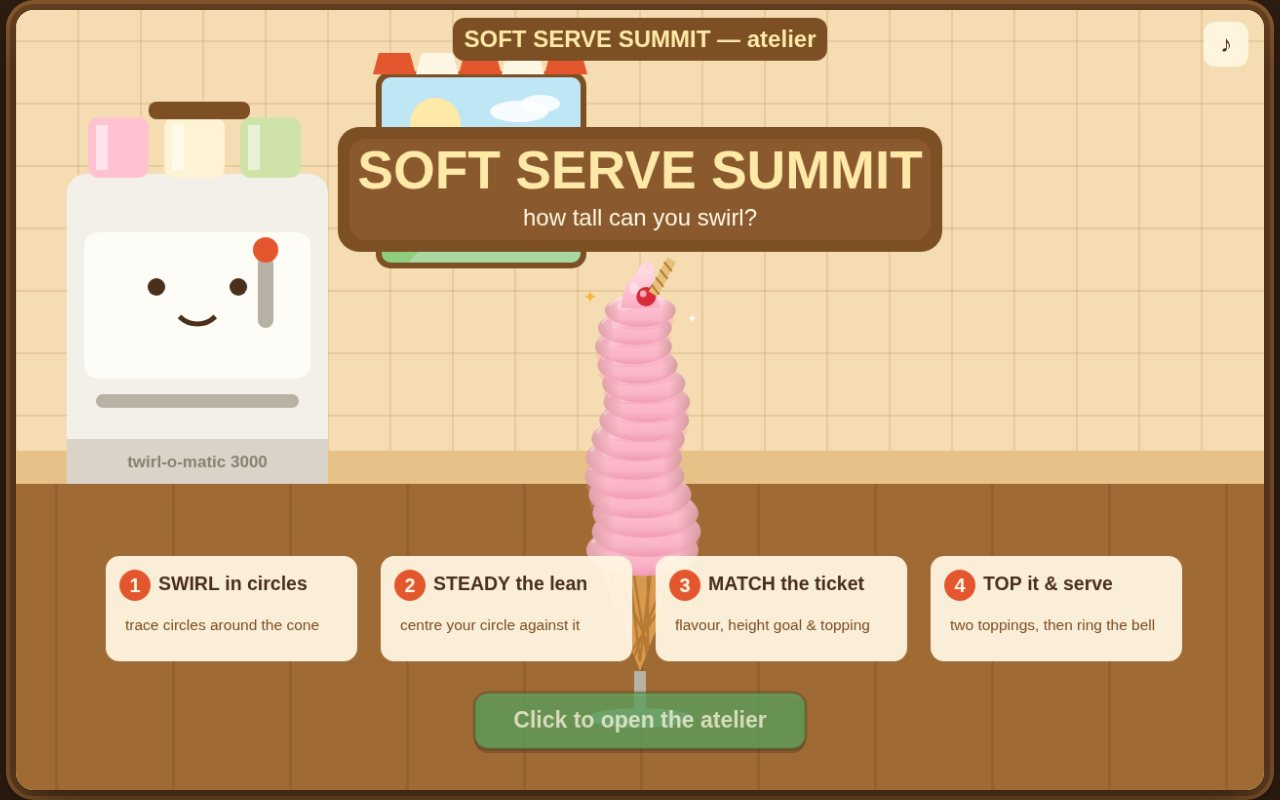
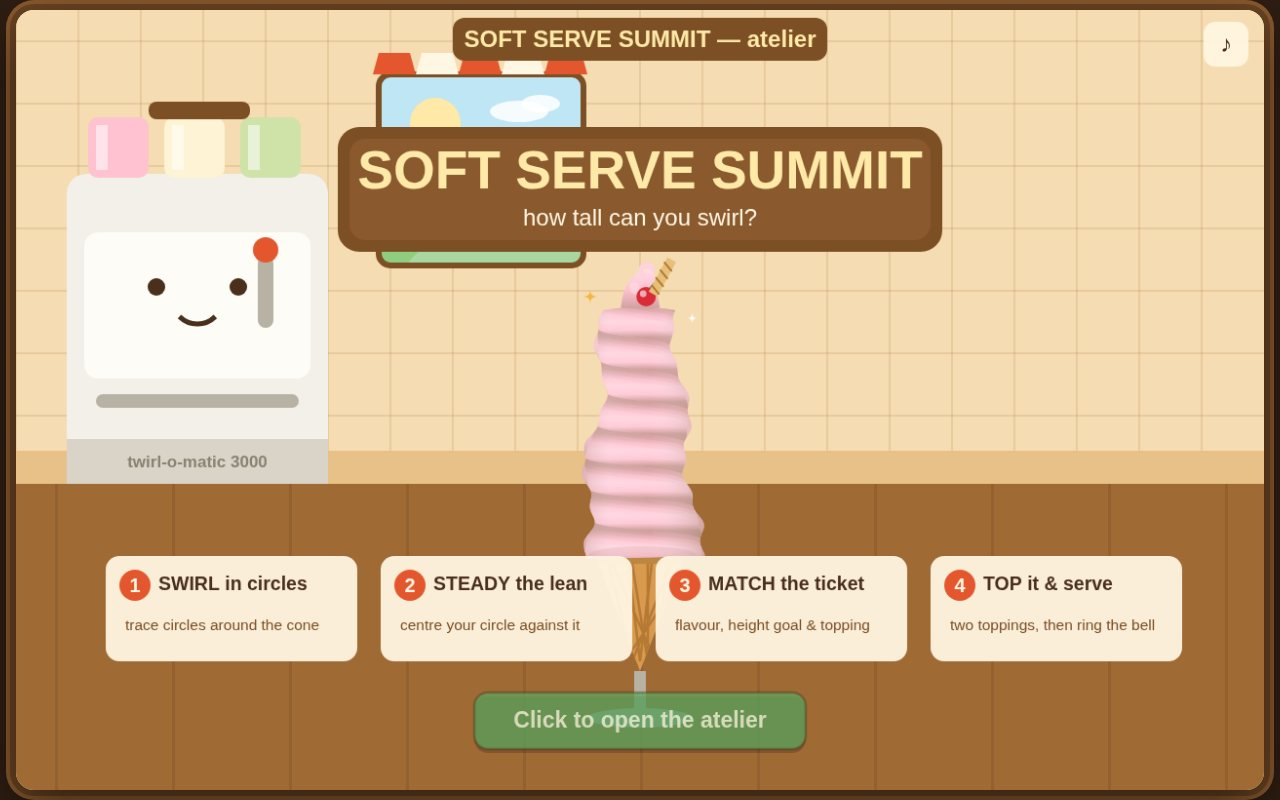
Whipped-cream tower: one continuous spiral rope with soft folded shading
Replace the stacked-ring tower rendering with a single piped rope:
a breathing silhouette (organic swell plus rope-aligned edge bulges)
filled with the cream, then each turn of the helix drawn as a plump
filled band between diagonal groove curves - lit along its ridge,
falling into warm greige shadow where it tucks under the fold above.
No outlines, no per-ring gloss dabs; shadows derive from each flavour
pulled toward a warm greige, so vanilla reads as off-white whipped
cream. Tip curl softened to match. Rendering only: no changes to
mechanics, scoring or input.

Changed region(s): [[0.4375, 0.375, 0.5625, 0.7188]]

diff --git a/game/src/render.js b/game/src/render.js
@@ -182,48 +182,100 @@ function mixHex(a, b, t) {
   return `rgb(${c[0]},${c[1]},${c[2]})`;
 }
 
-/** Vertical pitch of one piped ring of the tower, in pixels. */
-const RING_PITCH = 19;
+/** Vertical rise of one full turn of the piped rope, in pixels. */
+const TURN_PITCH = 33;
+
+/** The warm greige every cream shadow leans toward — never a hard grey. */
+const WARM_SHADOW = '#7d6242';
+
+/** A flavour's shadow side: its own colour pulled toward warm greige. */
+function shadowOf(flavour, t) {
+  return mixHex(flavour.body, WARM_SHADOW, t);
+}
+
+/** Radius of the rope itself (its tube) at height `y`. */
+function tubeRadiusAt(y) {
+  return Math.min(21, Math.max(10.5, radiusAt(y) * 0.68));
+}
 
 /**
- * One plump piped ring of the tower: a fat rounded band with a gradient
- * body (lit on top, shaded underneath), a soft shadow cast on the ring
- * below, dimmed flanks so it feels cylindrical, and a glossy ridge where
- * the piping caught the light. Rings overlap heavily, so the stack reads
- * as squeezed-out cream, not a pile of thin discs.
+ * The tower's half-widths at height `y`: the taper, breathed on by two
+ * slow organic swells, and bulged where the rope itself passes each
+ * edge — the left edge swells half a turn after the right, so the
+ * silhouette undulates like a coil instead of a turned post.
  */
-function drawRing(ctx, cx, cy, r, flavour) {
-  const ry = Math.max(9.5, r * 0.46);
-  // The soft shadow this ring casts on the one below it: a wide, faint
-  // groove, never a hard line.
-  ctx.fillStyle = flavour.shade;
-  ctx.globalAlpha = 0.3;
-  ctx.beginPath(); ctx.ellipse(cx, cy + RING_PITCH * 0.55, r * 0.97, ry * 0.6, 0, 0, Math.PI * 2); ctx.fill();
-  ctx.globalAlpha = 1;
-  // The body, shaded top to bottom so the ring reads round, not flat.
-  const grad = ctx.createLinearGradient(0, cy - ry, 0, cy + ry);
-  grad.addColorStop(0, mixHex(flavour.body, '#ffffff', 0.55));
-  grad.addColorStop(0.38, flavour.body);
-  grad.addColorStop(0.78, mixHex(flavour.body, flavour.shade, 0.35));
-  grad.addColorStop(1, flavour.shade);
-  ctx.fillStyle = grad;
-  ctx.beginPath(); ctx.ellipse(cx, cy, r, ry, 0, 0, Math.PI * 2); ctx.fill();
-  // Dim the flanks a touch, so the ring feels cylindrical.
-  const side = ctx.createLinearGradient(cx - r, 0, cx + r, 0);
-  side.addColorStop(0, 'rgba(96,54,20,0.20)');
-  side.addColorStop(0.22, 'rgba(96,54,20,0)');
-  side.addColorStop(0.8, 'rgba(96,54,20,0)');
-  side.addColorStop(1, 'rgba(96,54,20,0.24)');
-  ctx.fillStyle = side;
-  ctx.beginPath(); ctx.ellipse(cx, cy, r, ry, 0, 0, Math.PI * 2); ctx.fill();
-  // The piped ridge catching the light along the top of the ring.
-  ctx.strokeStyle = 'rgba(255,255,255,0.38)';
-  ctx.lineWidth = Math.max(2, r * 0.055);
+function edgeWidths(y) {
+  const phase = (Math.PI * 2 * y) / TURN_PITCH;
+  const wob = 1 + 0.045 * Math.sin(y * 0.052 + 1.7) + 0.03 * Math.sin(y * 0.021 + 0.4);
+  const base = radiusAt(y) * wob;
+  const bulge = Math.min(0.05, (tubeRadiusAt(y) * 0.17) / Math.max(1, base));
+  return {
+    l: base * (1 + bulge * Math.cos(phase - Math.PI)),
+    r: base * (1 + bulge * Math.cos(phase)),
+    mid: base,
+  };
+}
+
+/** Stroke a point list as a soft, feathered band: three widening passes. */
+function softStroke(ctx, pts, width, colour, alpha) {
+  if (pts.length < 2) return;
+  ctx.save();
   ctx.lineCap = 'round';
-  ctx.beginPath(); ctx.ellipse(cx, cy - ry * 0.06, r * 0.92, ry * 0.84, 0, Math.PI * 1.1, Math.PI * 1.7); ctx.stroke();
-  // A glossy dab on the upper left.
-  ctx.fillStyle = 'rgba(255,255,255,0.35)';
-  ctx.beginPath(); ctx.ellipse(cx - r * 0.36, cy - ry * 0.36, r * 0.3, ry * 0.3, -0.35, 0, Math.PI * 2); ctx.fill();
+  ctx.lineJoin = 'round';
+  const passes = [[1.75, 0.2], [1.15, 0.38], [0.68, 0.62]];
+  for (const [scale, share] of passes) {
+    ctx.strokeStyle = colour;
+    ctx.globalAlpha = alpha * share;
+    ctx.lineWidth = Math.max(1, width * scale);
+    ctx.beginPath();
+    ctx.moveTo(pts[0].x, pts[0].y);
+    for (let i = 1; i < pts.length - 1; i += 1) {
+      const mx = (pts[i].x + pts[i + 1].x) / 2;
+      const my = (pts[i].y + pts[i + 1].y) / 2;
+      ctx.quadraticCurveTo(pts[i].x, pts[i].y, mx, my);
+    }
+    const last = pts[pts.length - 1];
+    ctx.lineTo(last.x, last.y);
+    ctx.stroke();
+  }
+  ctx.restore();
+}
+
+/**
+ * Points along one turn of the helix as it crosses the front of the
+ * tower, lifted `lift` pixels above the turn's ridge line. Across the
+ * front the rope climbs half a pitch from the right edge to the left;
+ * that diagonal flow is what makes the stack read as one continuous
+ * spiral of whipped cream instead of a pile of separate rings.
+ */
+function ridgePoints(tower, cx, topY, k, lift) {
+  const pts = [];
+  for (let i = 0; i <= 12; i += 1) {
+    const u = -1 + (i / 12) * 2;
+    const theta = Math.acos(Math.max(-1, Math.min(1, u)));
+    const y = k * TURN_PITCH + (TURN_PITCH / (Math.PI * 2)) * theta + lift;
+    pts.push({ x: cx + dxAt(tower, y) + u * edgeWidths(y).mid * 0.99, y: topY - y });
+  }
+  return pts;
+}
+
+/** The tower's outline as a Path2D, crowned with a soft dome. */
+function towerSilhouette(tower, cx, topY) {
+  const H = tower.heightPx;
+  const ys = [];
+  for (let y = 0; y <= H; y += 3) ys.push(y);
+  if (ys[ys.length - 1] < H) ys.push(H);
+  const leftPts = ys.map((y) => ({ x: cx + dxAt(tower, y) - edgeWidths(y).l, y: topY - y }));
+  const rightPts = ys.map((y) => ({ x: cx + dxAt(tower, y) + edgeWidths(y).r, y: topY - y }));
+  const path = new Path2D();
+  path.moveTo(leftPts[0].x, leftPts[0].y + 3);
+  for (const p of leftPts) path.lineTo(p.x, p.y);
+  const topAxis = cx + dxAt(tower, H);
+  const topRight = rightPts[rightPts.length - 1];
+  path.quadraticCurveTo(topAxis, topY - H - 7, topRight.x, topRight.y);
+  for (let i = rightPts.length - 1; i >= 0; i -= 1) path.lineTo(rightPts[i].x, rightPts[i].y);
+  path.closePath();
+  return path;
 }
 
 /** The curled peak at the very top: a plump teardrop with a flicked curl. */
@@ -233,7 +285,7 @@ function drawTip(ctx, cx, cy, r, flavour) {
   const grad = ctx.createLinearGradient(0, cy - h, 0, cy + 4);
   grad.addColorStop(0, mixHex(flavour.body, '#ffffff', 0.5));
   grad.addColorStop(0.55, flavour.body);
-  grad.addColorStop(1, mixHex(flavour.body, flavour.shade, 0.5));
+  grad.addColorStop(1, shadowOf(flavour, 0.34));
   ctx.fillStyle = grad;
   ctx.beginPath();
   ctx.moveTo(cx - w, cy + 4);
@@ -243,12 +295,12 @@ function drawTip(ctx, cx, cy, r, flavour) {
   ctx.quadraticCurveTo(cx, cy + w * 0.28, cx - w, cy + 4);
   ctx.closePath(); ctx.fill();
   // The little flick where the peak curls over.
-  ctx.strokeStyle = mixHex(flavour.body, '#ffffff', 0.35);
+  ctx.strokeStyle = mixHex(flavour.body, '#ffffff', 0.28);
   ctx.lineWidth = Math.max(3.5, r * 0.14);
   ctx.lineCap = 'round';
   ctx.beginPath(); ctx.arc(cx + w * 0.34, cy - h * 0.9, w * 0.3, Math.PI * 0.75, Math.PI * 1.95); ctx.stroke();
-  // Gloss on the peak's shoulder.
-  ctx.fillStyle = 'rgba(255,255,255,0.4)';
+  // A soft sheen on the peak's shoulder — whipped, not glossy.
+  ctx.fillStyle = 'rgba(255,255,255,0.26)';
   ctx.beginPath(); ctx.ellipse(cx - w * 0.3, cy - h * 0.42, w * 0.26, h * 0.16, -0.4, 0, Math.PI * 2); ctx.fill();
 }
 
@@ -339,18 +391,86 @@ export function drawTower(ctx, tower, flavourId, toppings, cx = CONE_X, topY = C
     ctx.translate(-cx, -topY);
   }
   if (tower.heightPx > 0) {
-    // Plump piped rings from the cone up: fat overlapping swirls, each a
-    // little narrower than the one below, crowned by one last ring, a
-    // curled peak, and — for a serve that made it — a little sparkle.
+    // One continuous piped rope, not a stack of rings: a breathing
+    // silhouette filled with the cream, then every turn of the helix
+    // shaded along its diagonal — a lit ridge, a soft fall, and a warm
+    // shadow tucked into the groove above it — crowned by a curled
+    // peak, and — for a serve that made it — a little sparkle.
     const topDx = dxAt(tower, tower.heightPx);
     const crownR = radiusAt(tower.heightPx);
     const crownY = topY - tower.heightPx;
-    const ringYs = [];
-    for (let y = 6; y < tower.heightPx; y += RING_PITCH) ringYs.push(y);
-    if (!ringYs.length || tower.heightPx - ringYs[ringYs.length - 1] > 6) ringYs.push(tower.heightPx);
-    for (const y of ringYs) {
-      drawRing(ctx, cx + dxAt(tower, y), topY - y, radiusAt(y), flavour);
+    const H = tower.heightPx;
+    const silhouette = towerSilhouette(tower, cx, topY);
+    const baseGrad = ctx.createLinearGradient(0, crownY, 0, topY);
+    baseGrad.addColorStop(0, mixHex(flavour.body, '#ffffff', 0.22));
+    baseGrad.addColorStop(0.55, flavour.body);
+    baseGrad.addColorStop(1, shadowOf(flavour, 0.14));
+    ctx.fillStyle = baseGrad;
+    ctx.fill(silhouette);
+    ctx.save();
+    ctx.clip(silhouette);
+    const turns = Math.ceil(H / TURN_PITCH) + 1;
+    for (let k = 0; k < turns; k += 1) {
+      // One plump fold of the rope: a filled band between two diagonal
+      // groove curves, graded across its whole thickness — shadowed
+      // where it tucks under the fold above, lit along its ridge, and
+      // falling into warm shadow at its underside. Filled bands, not
+      // stripes: the fold itself is the shape.
+      const lo = ridgePoints(tower, cx, topY, k, -TURN_PITCH * 0.45);
+      const hi = ridgePoints(tower, cx, topY, k, TURN_PITCH * 0.55);
+      const band = new Path2D();
+      band.moveTo(lo[0].x, lo[0].y);
+      for (let i = 1; i < lo.length - 1; i += 1) {
+        band.quadraticCurveTo(lo[i].x, lo[i].y, (lo[i].x + lo[i + 1].x) / 2, (lo[i].y + lo[i + 1].y) / 2);
+      }
+      band.lineTo(lo[lo.length - 1].x, lo[lo.length - 1].y);
+      const hir = [...hi].reverse();
+      band.lineTo(hir[0].x, hir[0].y);
+      for (let i = 1; i < hir.length - 1; i += 1) {
+        band.quadraticCurveTo(hir[i].x, hir[i].y, (hir[i].x + hir[i + 1].x) / 2, (hir[i].y + hir[i + 1].y) / 2);
+      }
+      band.lineTo(hir[hir.length - 1].x, hir[hir.length - 1].y);
+      band.closePath();
+      const mid = Math.floor(lo.length / 2);
+      const g = ctx.createLinearGradient(0, hi[mid].y, 0, lo[mid].y);
+      g.addColorStop(0, shadowOf(flavour, 0.3));
+      g.addColorStop(0.3, flavour.body);
+      g.addColorStop(0.52, mixHex(flavour.body, '#ffffff', 0.3));
+      g.addColorStop(0.78, mixHex(flavour.body, '#ffffff', 0.08));
+      g.addColorStop(1, shadowOf(flavour, 0.38));
+      ctx.fillStyle = g;
+      ctx.fill(band);
+      // The groove seam and the ridge light, feathered over the fill.
+      const tube = tubeRadiusAt(Math.min(H, k * TURN_PITCH + TURN_PITCH / 2));
+      softStroke(ctx, hi, tube * 0.7, shadowOf(flavour, 0.5), 0.3);
+      softStroke(ctx, ridgePoints(tower, cx, topY, k, 0), tube * 0.7, mixHex(flavour.body, '#ffffff', 0.55), 0.18);
     }
+    // Cylindrical light: lit from the upper left, the flanks fall away
+    // warm. The gradient spans the whole lean of the tower.
+    let boxL = Infinity;
+    let boxR = -Infinity;
+    for (let y = 0; y <= H; y += 20) {
+      const ax = cx + dxAt(tower, y);
+      boxL = Math.min(boxL, ax - radiusAt(y));
+      boxR = Math.max(boxR, ax + radiusAt(y));
+    }
+    boxL -= 8;
+    boxR += 8;
+    const cyl = ctx.createLinearGradient(boxL, 0, boxR, 0);
+    cyl.addColorStop(0, 'rgba(125,98,66,0.26)');
+    cyl.addColorStop(0.25, 'rgba(255,255,255,0.10)');
+    cyl.addColorStop(0.55, 'rgba(255,255,255,0)');
+    cyl.addColorStop(1, 'rgba(125,98,66,0.32)');
+    ctx.fillStyle = cyl;
+    ctx.fillRect(boxL, crownY - 34, boxR - boxL, H + 38);
+    // Where the cream settles onto the cone, a soft contact shadow.
+    ctx.fillStyle = shadowOf(flavour, 0.45);
+    ctx.globalAlpha = 0.2;
+    ctx.beginPath();
+    ctx.ellipse(cx + dxAt(tower, 0), topY - 1, radiusAt(0) * 0.95, 9, 0, 0, Math.PI * 2);
+    ctx.fill();
+    ctx.globalAlpha = 1;
+    ctx.restore();
     if (tower.finished || tower.toppled) {
       drawTip(ctx, cx + topDx, crownY - crownR * 0.18, crownR, flavour);
     }
